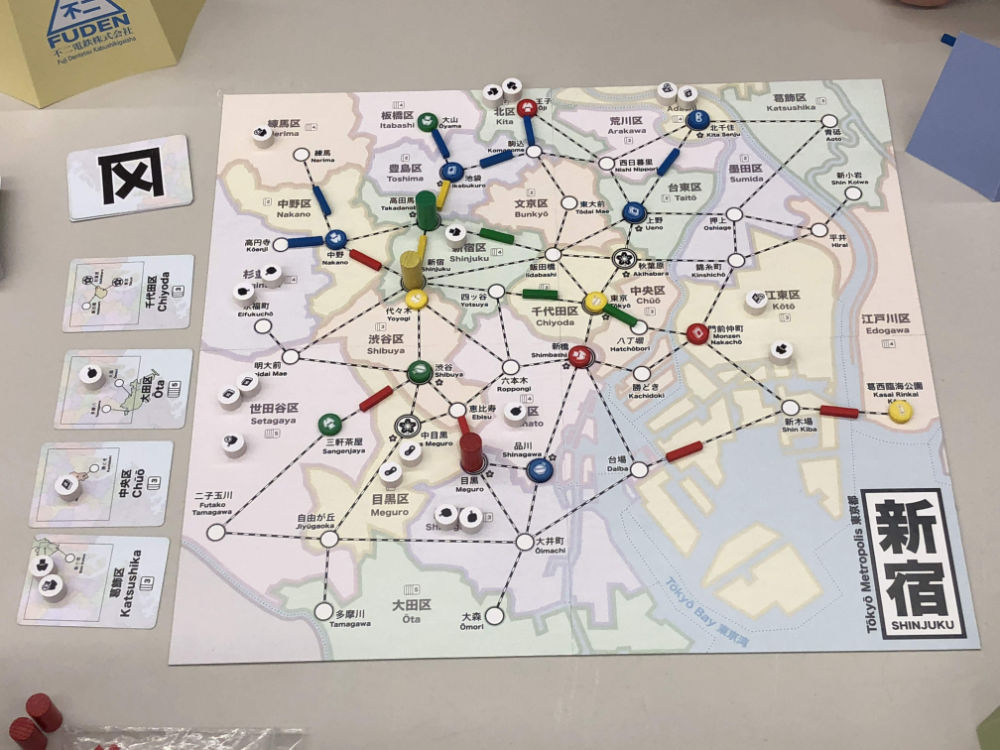
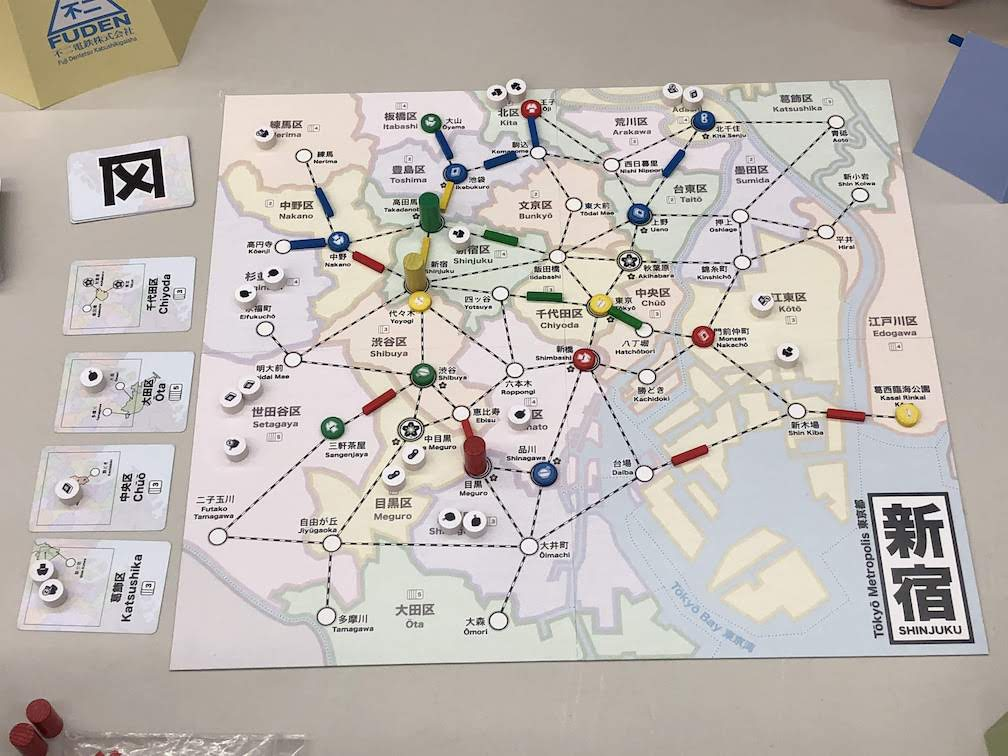
Playtest 63 notes

diff --git a/playtests/2019-12-20-playtest-63.md b/playtests/2019-12-20-playtest-63.md
@@ -1,0 +1,50 @@
+# Playtest #63
+
+Fri 20 Dec 2019
+
+Participants: Ben C, Joe C, Aaron W, Mayson M
+
+<img src="images/pt63/pt63-3431.jpg" height="150px"/> <img src="images/pt63/pt63-3432.jpg" height="150px"/> <img src="images/pt63/pt63-3433.jpg" height="150px"/> <img src="images/pt63/pt63-3434.jpg" height="150px"/> <img src="images/pt63/pt63-3435.jpg" height="150px"/> <img src="images/pt63/pt63-3436.jpg" height="150px"/> <img src="images/pt63/pt63-3437.jpg" height="150px"/> <img src="images/pt63/pt63-3438.jpg" height="150px"/> <img src="images/pt63/pt63-3439.jpg" height="150px"/> <img src="images/pt63/pt63-3441.jpg" height="150px"/> <img src="images/pt63/pt63-3442.jpg" height="150px"/> <img src="images/pt63/pt63-3443.jpg" height="150px"/> <img src="images/pt63/pt63-3444.jpg" height="150px"/> <img src="images/pt63/pt63-3445.jpg" height="150px"/> <img src="images/pt63/pt63-3446.jpg" height="150px"/> <img src="images/pt63/pt63-3447.jpg" height="150px"/> <img src="images/pt63/pt63-3448.jpg" height="150px"/> 
+
+Testing:
+
+* new players
+* 4-player
+* Combined Upgrade/Move
+	* When you upgrade, add a new customer to the sidebar (from bag)
+* Start customer queue with 1 customer, add 1 per department store
+
+## Comments
+
+Starting with only 1 customer feels slow.
+
+Ramp up speed feels fine
+
+During game:
+
+* How many of each card?
+* How many times will we shuffle?
+* Have we seen them all yet? (the cards)
+
+Sometimes player felt restricted by their cards
+
+Score:
+
+| Player | Color  | Score  |
+| ------ | ------ | ------ |
+| Ben    | yellow |   36   |
+| Joe    | blue   |   35   |
+| Aaron  | green  |   29   |
+| Mayson | red    |   23   |
+
+What would you do differently next game?
+
+* upgrade to DS earlier
+
+## Suggestions/Actions
+
+next:
+
+* increase customer count
+* improve or drop dept store bonus
+* keep Move/Upgrade together?
